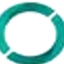
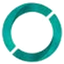
Apply exact authentic 3D emblem, straight non-italic S, clean letter spacing, and tracked slogan

diff --git a/src/app/page.tsx b/src/app/page.tsx
@@ -55,11 +55,11 @@ export default function Home() {
       {/* 2. Top Header / Navbar */}
       <header className="relative z-20 pt-6 px-4 sm:px-8 max-w-7xl mx-auto w-full flex items-center justify-between">
         
-        {/* Left Official Brand Logo (Crisp, Elegant Vector) */}
+        {/* Left Official Brand Logo */}
         <Link href="#" className="flex items-center group">
           <div className="relative h-10 w-48 sm:h-11 sm:w-56 transition-transform duration-200 group-hover:scale-105">
             <Image
-              src="/tahseen-logo.svg"
+              src="/tahseen-logo.png"
               alt="Tahseen AI - Enhance Your Work"
               fill
               sizes="(max-width: 640px) 192px, 224px"

diff --git a/create_logo.py b/create_logo.py
@@ -1,0 +1,217 @@
+import math
+from PIL import Image, ImageDraw, ImageFont
+
+# Load the exact authentic emblem from the brand sheet
+emblem = Image.open('C:/Users/sakju/tahseen-ai/public/emblem-official-exact.png').convert('RGBA')
+
+# Target height for master logo
+target_emblem_h = 100
+scale_e = target_emblem_h / emblem.height
+emblem_scaled = emblem.resize((int(emblem.width * scale_e), target_emblem_h), Image.Resampling.LANCZOS)
+
+# Create high-precision letter glyphs (upright, non-italic, clean strokes, white #FFFFFF)
+LH = 30
+ST = 4 # stroke width
+
+def create_glyph(w, h):
+    img = Image.new('RGBA', (w, h), (0, 0, 0, 0))
+    return img, ImageDraw.Draw(img)
+
+# T (Upright)
+img_T, d = create_glyph(20, LH)
+d.line([(0, 2), (20, 2)], fill=(255, 255, 255, 255), width=ST)
+d.line([(10, 2), (10, LH - 2)], fill=(255, 255, 255, 255), width=ST)
+
+# A (Upright futuristic / \)
+img_A, d = create_glyph(22, LH)
+d.line([(2, LH - 2), (11, 2), (20, LH - 2)], fill=(255, 255, 255, 255), width=ST, joint='miter')
+
+# H (Upright)
+img_H, d = create_glyph(20, LH)
+d.line([(2, 2), (2, LH - 2)], fill=(255, 255, 255, 255), width=ST)
+d.line([(18, 2), (18, LH - 2)], fill=(255, 255, 255, 255), width=ST)
+d.line([(2, LH // 2), (18, LH // 2)], fill=(255, 255, 255, 255), width=ST)
+
+# S (UPRIGHT - NOT ITALICIZED, clean geometric)
+img_S, d = create_glyph(20, LH)
+d.line([(18, 4), (6, 4)], fill=(255, 255, 255, 255), width=ST)
+d.line([(3, 4), (3, LH // 2 - 1)], fill=(255, 255, 255, 255), width=ST)
+d.line([(3, LH // 2 - 1), (17, LH // 2 + 1)], fill=(255, 255, 255, 255), width=ST)
+d.line([(17, LH // 2 + 1), (17, LH - 4)], fill=(255, 255, 255, 255), width=ST)
+d.line([(17, LH - 4), (3, LH - 4)], fill=(255, 255, 255, 255), width=ST)
+
+# E (Three parallel horizontal bars)
+img_E, d = create_glyph(20, LH)
+d.line([(2, 3), (18, 3)], fill=(255, 255, 255, 255), width=ST)
+d.line([(2, LH // 2), (16, LH // 2)], fill=(255, 255, 255, 255), width=ST)
+d.line([(2, LH - 3), (18, LH - 3)], fill=(255, 255, 255, 255), width=ST)
+
+# N (Upright)
+img_N, d = create_glyph(22, LH)
+d.line([(2, 2), (2, LH - 2)], fill=(255, 255, 255, 255), width=ST)
+d.line([(2, 2), (20, LH - 2)], fill=(255, 255, 255, 255), width=ST)
+d.line([(20, 2), (20, LH - 2)], fill=(255, 255, 255, 255), width=ST)
+
+# I (Upright)
+img_I, d = create_glyph(6, LH)
+d.line([(3, 2), (3, LH - 2)], fill=(255, 255, 255, 255), width=ST)
+
+# < (Teal chevron)
+teal = (0, 210, 180, 255) # Official Teal
+img_BO, d = create_glyph(14, LH)
+d.line([(11, 4), (3, LH // 2), (11, LH - 4)], fill=teal, width=ST, joint='miter')
+
+# > (Teal chevron)
+img_BC, d = create_glyph(14, LH)
+d.line([(3, 4), (11, LH // 2), (3, LH - 4)], fill=teal, width=ST, joint='miter')
+
+# Assemble Top Line: T A H S E E N   < A I > with spacing between letters
+letter_gap = 10
+word_gap = 18
+
+glyphs = [
+    img_T, img_A, img_H, img_S, img_E, img_E, img_N,
+    'WORD_GAP',
+    img_BO, img_A, img_I, img_BC
+]
+
+total_top_w = 0
+for g in glyphs:
+    if g == 'WORD_GAP':
+        total_top_w += word_gap
+    else:
+        total_top_w += g.width + letter_gap
+
+top_line = Image.new('RGBA', (total_top_w, LH), (0, 0, 0, 0))
+cx = 0
+for g in glyphs:
+    if g == 'WORD_GAP':
+        cx += word_gap
+    else:
+        top_line.paste(g, (cx, 0), g)
+        cx += g.width + letter_gap
+
+# Slogan: E N H A N C E   Y O U R   W O R K
+SH = 10
+SST = 2
+
+def create_slogan_glyph(w, h):
+    img = Image.new('RGBA', (w, h), (0, 0, 0, 0))
+    return img, ImageDraw.Draw(img)
+
+# Slogan letter glyphs
+s_E, d = create_slogan_glyph(8, SH)
+d.line([(1, 1), (7, 1)], fill=(226, 232, 240, 255), width=SST)
+d.line([(1, 5), (6, 5)], fill=(226, 232, 240, 255), width=SST)
+d.line([(1, 9), (7, 9)], fill=(226, 232, 240, 255), width=SST)
+
+s_N, d = create_slogan_glyph(8, SH)
+d.line([(1, 1), (1, 9)], fill=(226, 232, 240, 255), width=SST)
+d.line([(1, 1), (7, 9)], fill=(226, 232, 240, 255), width=SST)
+d.line([(7, 1), (7, 9)], fill=(226, 232, 240, 255), width=SST)
+
+s_H, d = create_slogan_glyph(8, SH)
+d.line([(1, 1), (1, 9)], fill=(226, 232, 240, 255), width=SST)
+d.line([(7, 1), (7, 9)], fill=(226, 232, 240, 255), width=SST)
+d.line([(1, 5), (7, 5)], fill=(226, 232, 240, 255), width=SST)
+
+s_A, d = create_slogan_glyph(8, SH)
+d.line([(1, 9), (4, 1), (7, 9)], fill=(226, 232, 240, 255), width=SST)
+d.line([(2, 6), (6, 6)], fill=(226, 232, 240, 255), width=SST)
+
+s_C, d = create_slogan_glyph(8, SH)
+d.line([(7, 1), (2, 1), (2, 9), (7, 9)], fill=(226, 232, 240, 255), width=SST)
+
+s_Y, d = create_slogan_glyph(8, SH)
+d.line([(1, 1), (4, 5)], fill=(226, 232, 240, 255), width=SST)
+d.line([(7, 1), (4, 5)], fill=(226, 232, 240, 255), width=SST)
+d.line([(4, 5), (4, 9)], fill=(226, 232, 240, 255), width=SST)
+
+s_O, d = create_slogan_glyph(8, SH)
+d.line([(2, 1), (6, 1)], fill=(226, 232, 240, 255), width=SST)
+d.line([(1, 2), (1, 8)], fill=(226, 232, 240, 255), width=SST)
+d.line([(7, 2), (7, 8)], fill=(226, 232, 240, 255), width=SST)
+d.line([(2, 9), (6, 9)], fill=(226, 232, 240, 255), width=SST)
+
+s_U, d = create_slogan_glyph(8, SH)
+d.line([(1, 1), (1, 8), (7, 8), (7, 1)], fill=(226, 232, 240, 255), width=SST)
+
+s_R, d = create_slogan_glyph(8, SH)
+d.line([(1, 1), (1, 9)], fill=(226, 232, 240, 255), width=SST)
+d.line([(1, 1), (6, 1), (7, 3), (6, 5), (1, 5)], fill=(226, 232, 240, 255), width=SST)
+d.line([(4, 5), (7, 9)], fill=(226, 232, 240, 255), width=SST)
+
+s_W, d = create_slogan_glyph(10, SH)
+d.line([(1, 1), (3, 9), (5, 4), (7, 9), (9, 1)], fill=(226, 232, 240, 255), width=SST)
+
+s_K, d = create_slogan_glyph(8, SH)
+d.line([(1, 1), (1, 9)], fill=(226, 232, 240, 255), width=SST)
+d.line([(7, 1), (1, 5), (7, 9)], fill=(226, 232, 240, 255), width=SST)
+
+slogan_items = [
+    s_E, s_N, s_H, s_A, s_N, s_C, s_E,
+    'SLOGAN_SPACE',
+    s_Y, s_O, s_U, s_R,
+    'SLOGAN_SPACE',
+    s_W, s_O, s_R, s_K
+]
+
+s_letter_gap = 7
+s_word_gap = 18
+
+slogan_w = 0
+for it in slogan_items:
+    if it == 'SLOGAN_SPACE':
+        slogan_w += s_word_gap
+    else:
+        slogan_w += it.width + s_letter_gap
+
+slogan_line = Image.new('RGBA', (slogan_w, SH), (0, 0, 0, 0))
+scx = 0
+for it in slogan_items:
+    if it == 'SLOGAN_SPACE':
+        scx += s_word_gap
+    else:
+        slogan_line.paste(it, (scx, 0), it)
+        scx += it.width + s_letter_gap
+
+# Build Right Text Block
+gap_y = 12
+text_block_w = max(top_line.width, slogan_line.width)
+text_block_h = top_line.height + gap_y + slogan_line.height
+
+text_block = Image.new('RGBA', (text_block_w, text_block_h), (0, 0, 0, 0))
+text_block.paste(top_line, (0, 0), top_line)
+text_block.paste(slogan_line, (0, top_line.height + gap_y), slogan_line)
+
+# Divider bar |
+div_w = 2
+div_h = int(target_emblem_h * 0.72)
+divider = Image.new('RGBA', (div_w, div_h), (255, 255, 255, 140))
+
+# Composite Master
+gap_master = 24
+master_w = emblem_scaled.width + gap_master + div_w + gap_master + text_block.width + 30
+master_h = max(target_emblem_h, text_block.height) + 20
+
+master = Image.new('RGBA', (master_w, master_h), (0, 0, 0, 0))
+e_y = (master_h - emblem_scaled.height) // 2
+master.paste(emblem_scaled, (10, e_y), emblem_scaled)
+
+div_x = 10 + emblem_scaled.width + gap_master
+div_y = (master_h - div_h) // 2
+master.paste(divider, (div_x, div_y), divider)
+
+tb_x = div_x + div_w + gap_master
+tb_y = (master_h - text_block.height) // 2
+master.paste(text_block, (tb_x, tb_y), text_block)
+
+mbbox = master.getbbox()
+if mbbox:
+    master = master.crop((mbbox[0] - 4, mbbox[1] - 4, mbbox[2] + 4, mbbox[3] + 4))
+
+master.save('C:/Users/sakju/tahseen-ai/public/tahseen-logo.png', format='PNG', optimize=True)
+master.save('C:/Users/sakju/tahseen-ai/public/logo.png', format='PNG', optimize=True)
+emblem_scaled.resize((64, 64), Image.Resampling.LANCZOS).save('C:/Users/sakju/tahseen-ai/src/app/icon.png', format='PNG')
+
+print('Master Logo with exact emblem, non-italic S, spaced letters generated! Size:', master.size)
